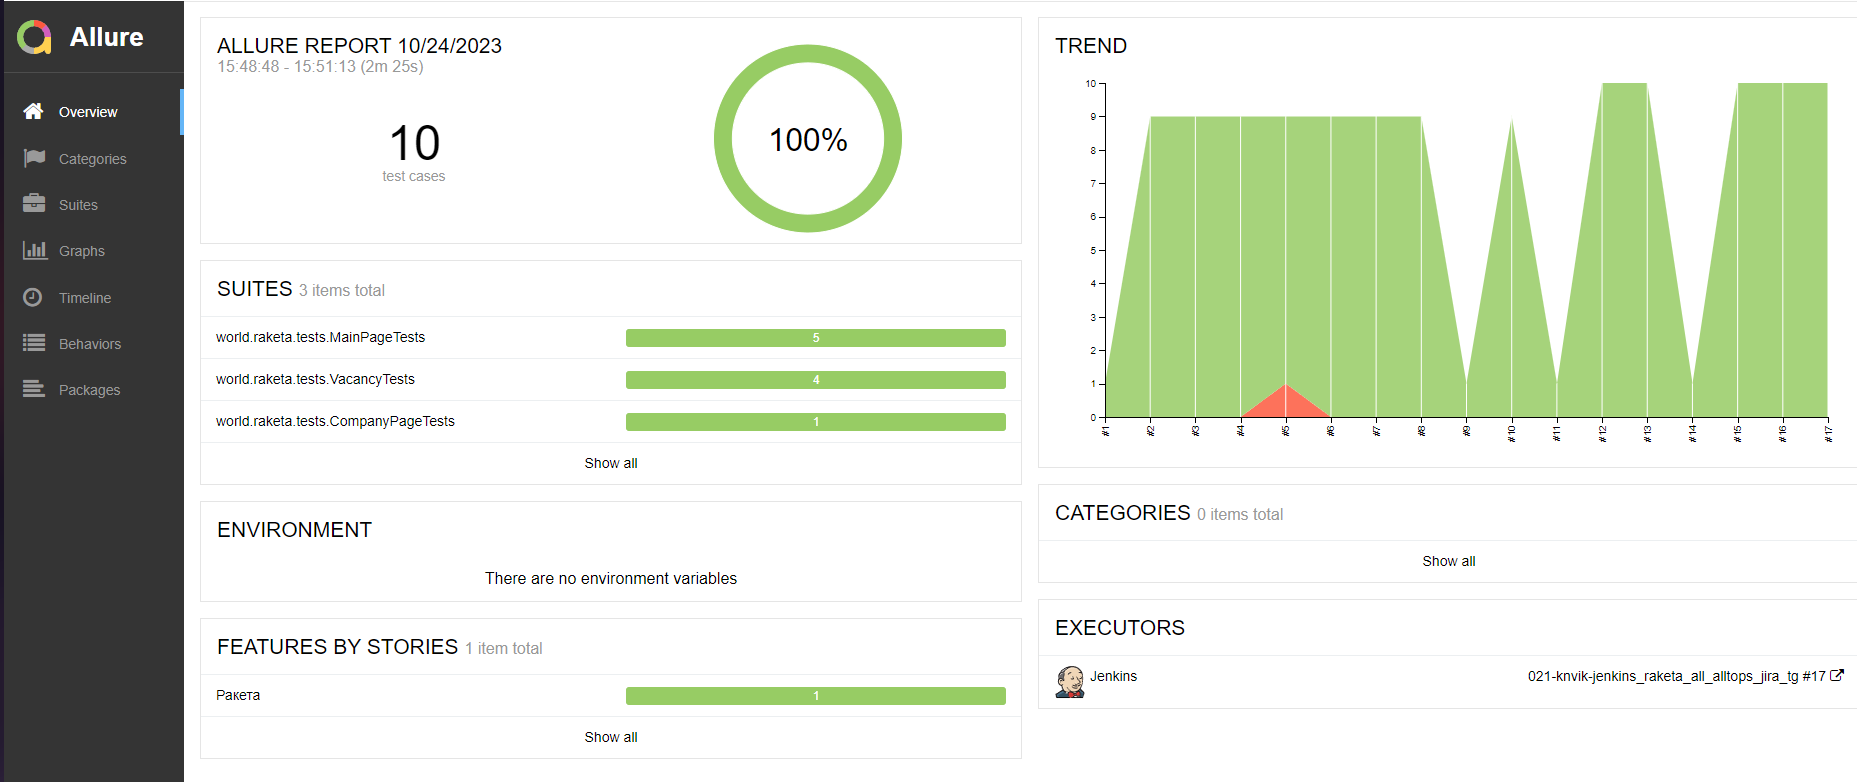
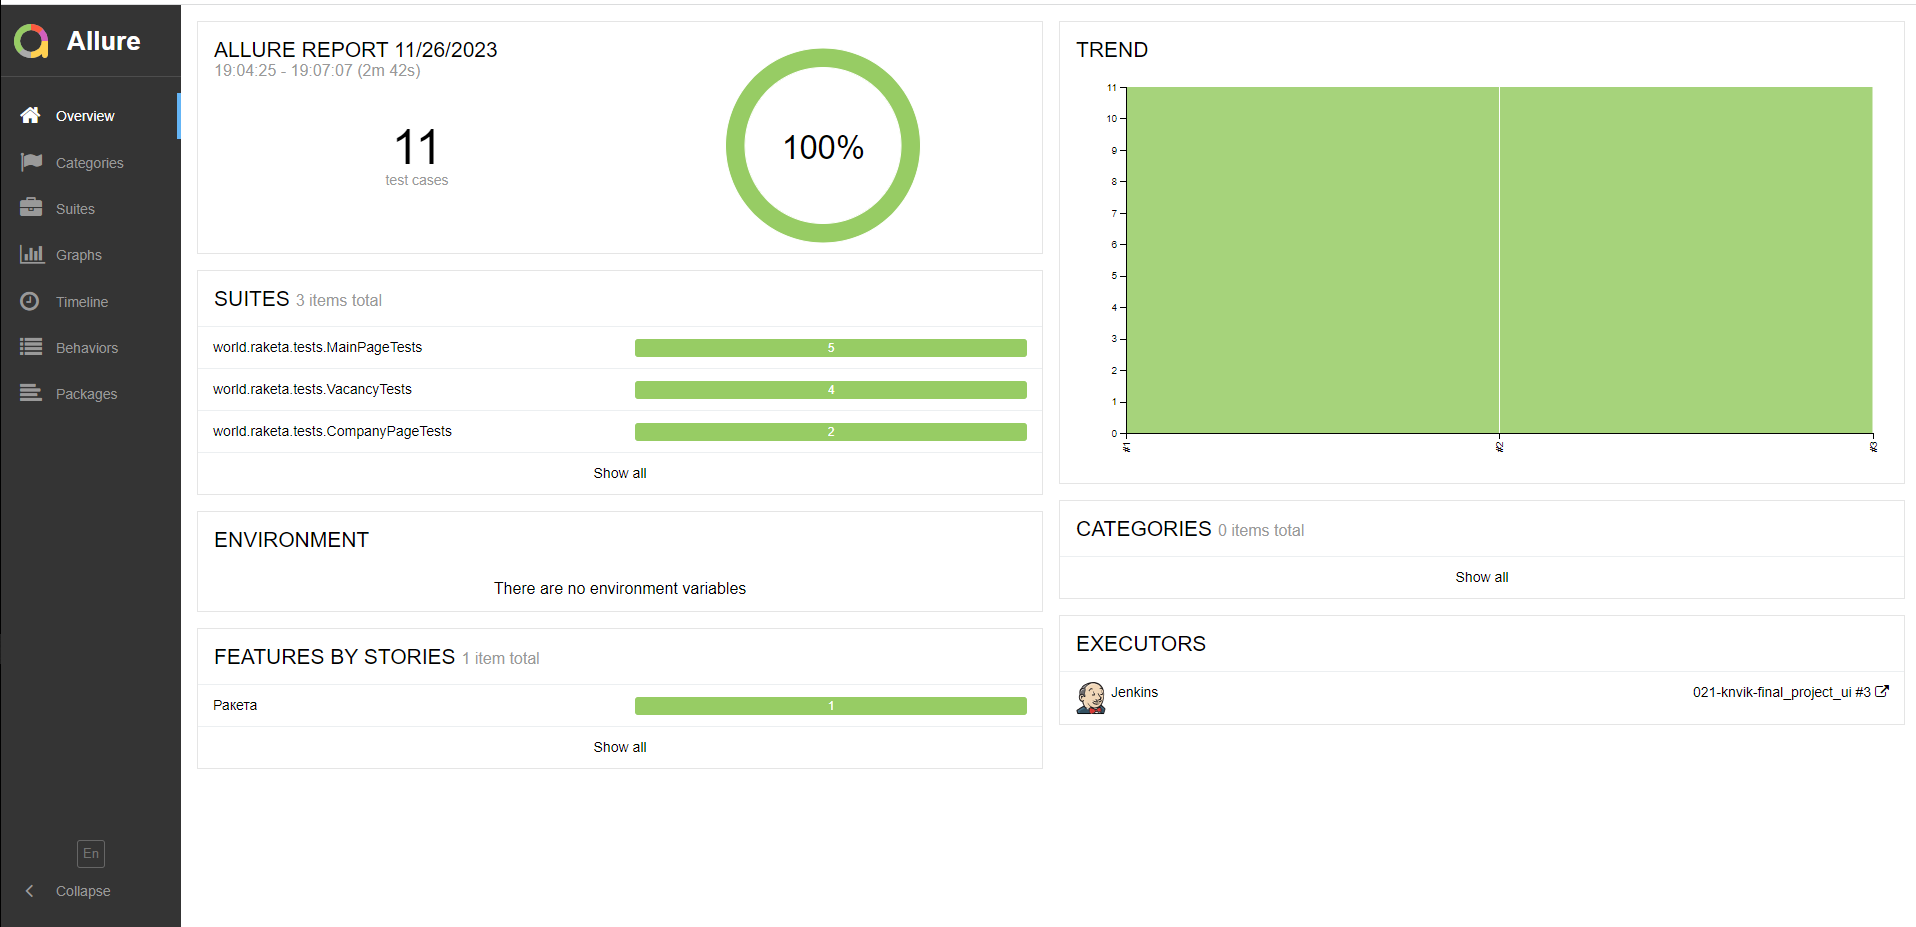
добавление метода и логотипа

diff --git a/README.md b/README.md
@@ -92,23 +92,23 @@ gradle clean run_raketa -DisRemote=true
 
 
 
-<kbd>[![](media/screens/jenkins1.PNG)](https://jenkins.autotests.cloud/job/021-knvik-jenkins_raketa_all_alltops_jira_tg/)</kbd>
+<kbd>[![](media/screens/jenkins1.PNG)](https://jenkins.autotests.cloud/job/021-knvik-final_project_ui/)</kbd>
 
 ## <img src="media/logo/Allure_Report.svg" title="Allure Report" width="4%"/> Пример Allure-отчета
 ##### <a href="https://jenkins.autotests.cloud/job/021-knvik-jenkins_raketa_all_alltops_jira_tg/16/allure/#" target="_blank" rel="noopener"><span>Overview</span> </a>
 
 
 
-<kbd>[![](media/screens/Allure1.PNG)](https://jenkins.autotests.cloud/job/021-knvik-jenkins_raketa_all_alltops_jira_tg/16/allure/#)</kbd>
+<kbd>[![](media/screens/Allure1.PNG)](https://jenkins.autotests.cloud/job/021-knvik-final_project_ui/allure/)</kbd>
 
 #####  <a href="https://jenkins.autotests.cloud/job/021-knvik-jenkins_raketa_all_alltops_jira_tg/16/allure/#suites/129ac936ae3c796ae95cabb5edc1b869/16a8391194530603/" target="_blank" rel="noopener"><span>Результат выполнения теста</span> </a>
 
-<kbd>[![](media/screens/Allure2.PNG)](https://jenkins.autotests.cloud/job/021-knvik-jenkins_raketa_all_alltops_jira_tg/16/allure/#suites/129ac936ae3c796ae95cabb5edc1b869/16a8391194530603/
+<kbd>[![](media/screens/Allure2.PNG)](https://jenkins.autotests.cloud/job/021-knvik-final_project_ui/allure/#behaviors/aa35b6349be711bd68148bf5dae0d52a/dc2cc6033cb94f4b/
 )</kbd>
 
 #### <a href="https://jenkins.autotests.cloud/job/021-knvik-jenkins_raketa_all_alltops_jira_tg/16/allure/#behaviors/ad278f761a7c8b2f9f37925e0bd8ca8e/db272aebe61ef5c/" target="_blank" rel="noopener"><span>Behaviors</span> </a>
 
-<kbd>[![](media/screens/Allure3.PNG)](https://jenkins.autotests.cloud/job/021-knvik-jenkins_raketa_all_alltops_jira_tg/16/allure/#behaviors/ad278f761a7c8b2f9f37925e0bd8ca8e/db272aebe61ef5c/
+<kbd>[![](media/screens/Allure3.PNG)](https://jenkins.autotests.cloud/job/021-knvik-final_project_ui/allure/#behaviors/6c3d8c6182db1f06d81dd501ad395535/1ae3098a66ec0716/
 )</kbd>
 
 ## <img src="media/logo/AllureTestOps.svg" title="Allure TestOps" width="4%"/> Интеграция с Allure TestOps
